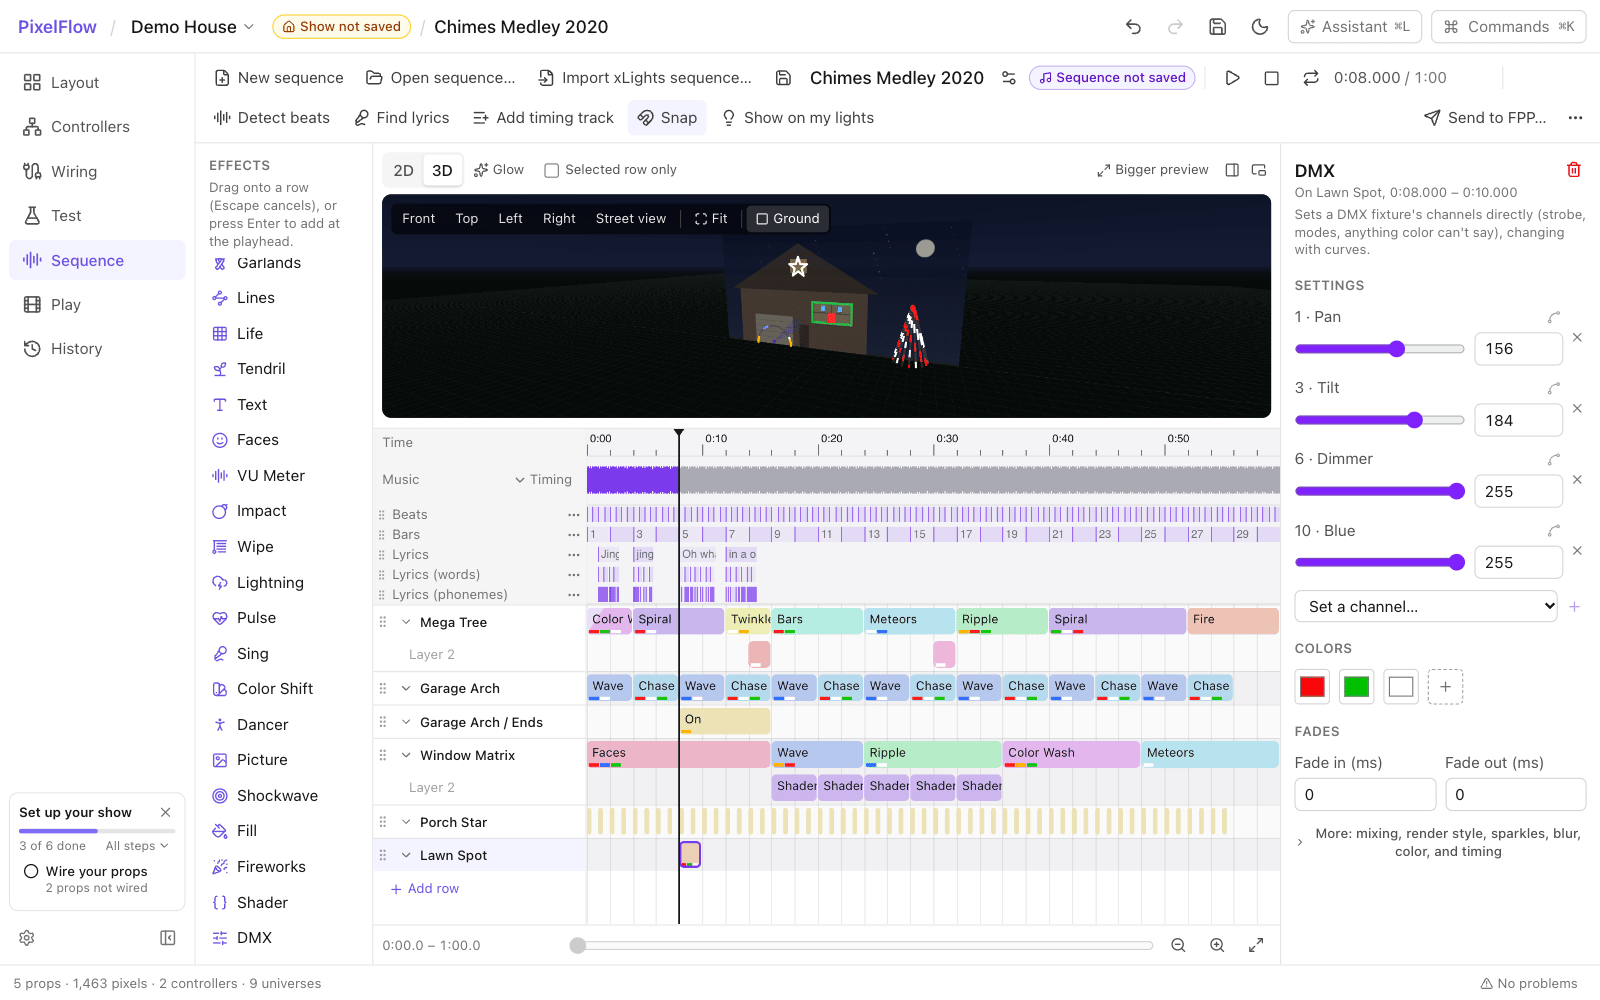
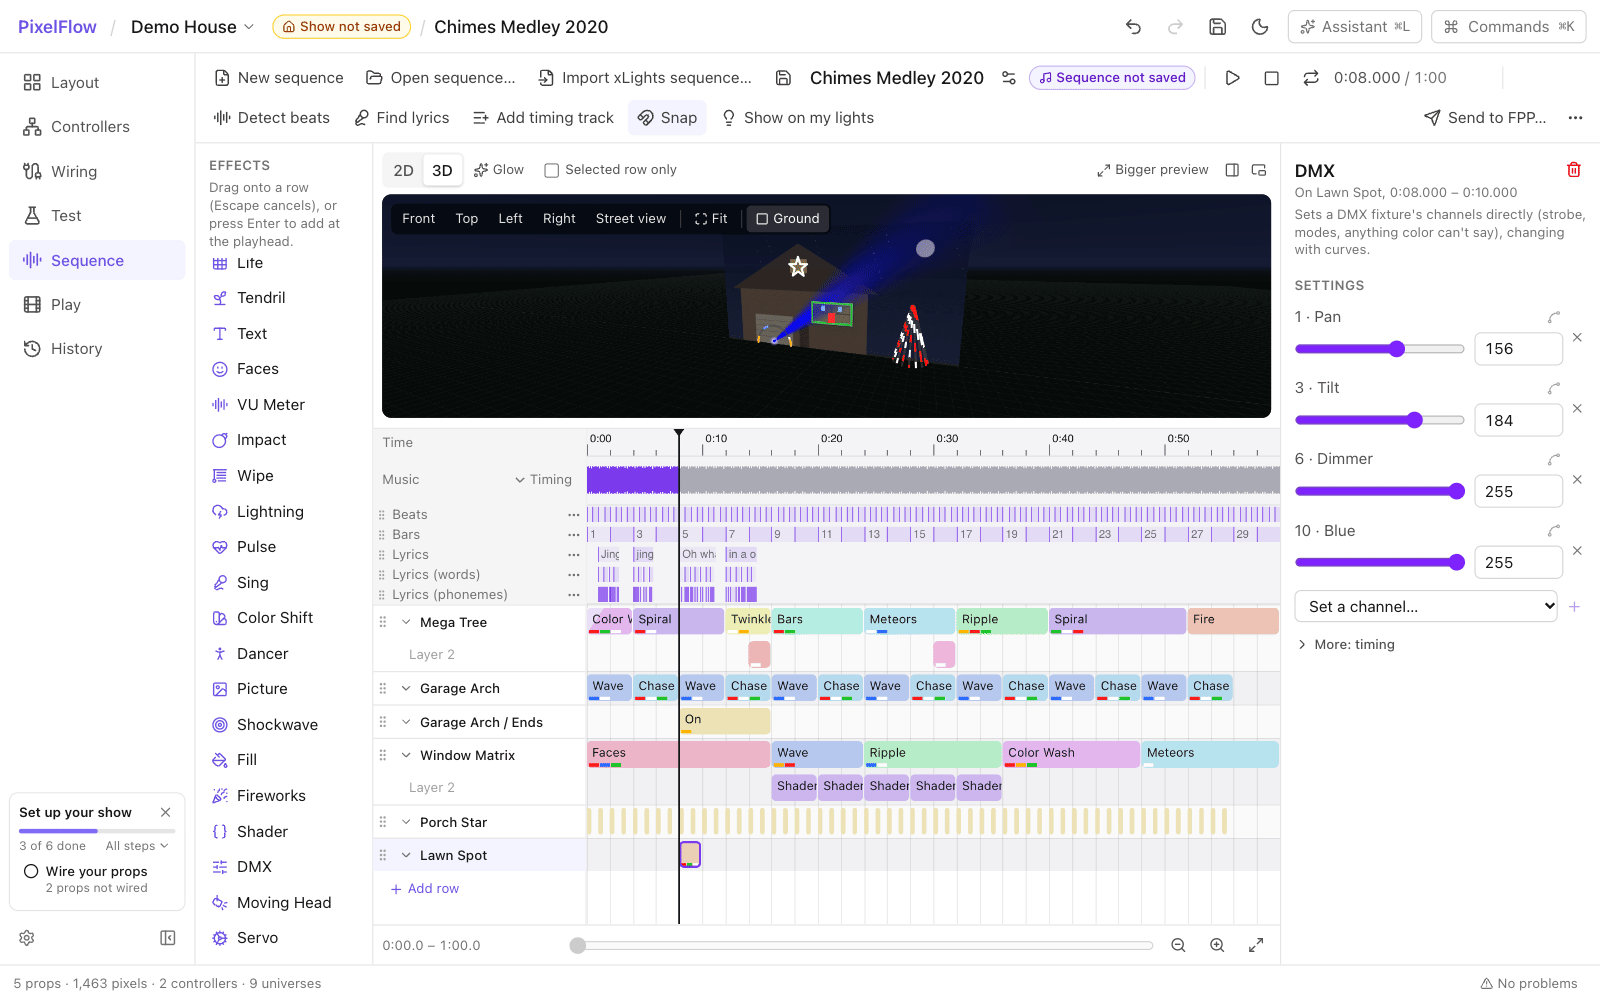
docs(dmx): long beams in haze, adding up where they cross, with a lens flare
Describes how the previews draw a head's beam now, and retakes the
screenshots that show beams. The DMX head shots no longer ask for the
preview above the timeline in a narrow window, which has it there already.

diff --git a/docs/dmx.md b/docs/dmx.md
@@ -87,8 +87,9 @@ wheel, or cyan, magenta and yellow, usually with a dimmer and a shutter.
    - **Reversed**: it turns the other way as the value rises.
    - **Hung upside down**: it hangs from its base (turned half round in the front plane). To point
      it another way, turn the prop on Layout.
-   - **Beam width** (the fixture's beam angle) and **Beam drawn** (how far the previews draw it).
-     A head with a zoom channel (set a channel's role to **Zoom**) has **Zoom at 0** and **Zoom at
+   - **Beam width** (the fixture's beam angle) and **Beam drawn** (how far the previews draw its
+     beam at full strength; its light fades on to four times as far, so the default of 6 reaches
+     24). A head with a zoom channel (set a channel's role to **Zoom**) has **Zoom at 0** and **Zoom at
      255** instead: how wide its beam is at either end of the channel, from the manual; in
      between, the beam widens in proportion.
 
@@ -139,7 +140,7 @@ on a head's row, or on a group of heads to move them all at once.
   shutter](#strobe-and-shutter)), and at 0 opens it. A head with no strobe channel flashes its
   light instead.
 
-![The Sequence screen with a Moving Head effect on the Lawn Spots group of three heads: its settings show the pan and tilt pad, Pan 0, Tilt 50, the Circle movement 60 by 30 at 0.25 a second. The preview shows three blue beams fanned out from the lawn.](images/dmx-moving-head-effect.png)
+![The Sequence screen with a Moving Head effect on the Lawn Spots group of three heads: its settings show the pan and tilt pad, Pan 0, Tilt 50, the Circle movement 60 by 30 at 0.25 a second. The preview shows three long blue beams fanned out from the lawn, past the house, brighter where they cross.](images/dmx-moving-head-effect.png)
 
 Each head's limits always hold: a position past them stops at the limit. Fades dim the light and
 never move a head. Where it and a DMX effect set one channel, the later row (or the higher layer)
@@ -171,30 +172,45 @@ The head's color comes from what is drawn on it, on a layer below, or from its d
 channels set in the same effect. The previews draw the head's beam where it points, in its color;
 a servo's arm turns.
 
-![The Sequence screen with a DMX effect on the Lawn Spot moving head: 1 · Pan 156, 3 · Tilt 184, 6 · Dimmer 255 and 10 · Blue 255. The preview above the timeline shows a blue beam rising from the head to the right.](images/dmx-head-effect.png)
+![The Sequence screen with a DMX effect on the Lawn Spot moving head: 1 · Pan 156, 3 · Tilt 184, 6 · Dimmer 255 and 10 · Blue 255. The preview above the timeline shows a long blue beam rising from the head to the right, past the house, a flare at its lens.](images/dmx-head-effect.png)
 
 ## In the previews
 
-The previews show a head as the real light would look at night.
+The previews show a head as the real light would look at night, with a little haze in the air.
 
 - **A moving head** shows a beam from where it stands, where its pan and tilt point it, as wide
   as its beam angle (or its zoom channel) makes it. It is in the color the head shows and as
   bright: its dimmer, or the color's own brightness when it has no dimmer, makes it fainter or
-  stronger. Narrow near the head, the beam is bright; where it has spread wide it is softer, as a
-  real beam's light spreads out, and it fades out toward the end of the length it is drawn. So
-  it reads in the small preview beside the timeline and isn't blown out in a big one. Pointing
-  toward you, its end is a soft glow round the head.
+  stronger.
+- **Its reach**: the beam is at full strength as far as **Beam drawn** says, then fades gently
+  with distance, reaching four times as far before it ends softly. A head's beam reaches well
+  past the house, as a real one does at night.
+- **A filled cone**: the beam is brightest along its core and soft to its edges, and widens as it
+  goes. Narrow near the head, it is bright; where it has spread wide it is softer, so it reads in
+  the small preview beside the timeline and isn't blown out in a big one. Pointing toward or away
+  from you, you look along more of it and it is brighter, and its far end shows as a soft disc
+  (straight at you, a soft disc round the head).
+- **Where beams cross** their light adds up, as it does in haze: two orange beams make a
+  brighter orange where they cross, never washed out to white. Beams of different colors mix as
+  light does. Pixels' dots don't add up: each is drawn in its own color, over the beams.
+- **A flare at the lens**: while its light is on, a head shows a bright spot at its lens, larger
+  and whiter the brighter the head is. It flashes with the strobe.
 - **A beam pointing down** stops where it meets the ground and lights a pool of light there,
-  stretched the more the beam slants.
-- **Its shutter and strobe**: a closed shutter is dark, and a strobe flashes (see below).
+  stretched the more the beam slants, and as bright as what is left of the beam there.
+- **Its shutter and strobe**: a closed shutter is dark, with no beam or flare, and a strobe
+  flashes (see below). With the dimmer at 0, or the head at rest and unlit, nothing shows.
 - **Nothing playing**: with the lights off, nothing is lit. On **Layout**, a selected head shows a
-  thin dashed outline of where it points, to help you aim it; it is never drawn as light.
+  thin dashed outline of where it points, as far as **Beam drawn**, to help you aim it; it is
+  never drawn as light.
 - **A servo** shows an arm that turns with it, up at Home.
-- The 2D previews and an exported video draw them alike, from the same numbers; the 3D view draws
-  the beam as a cone by the same rules, which the house model hides where it stands in front of
-  it.
+- The 2D previews and an exported video draw them alike, from the same numbers, the beam cut off
+  at the edge of the picture. The 3D view draws each beam as a cone of lit haze by the same
+  rules, so it reads as a volume from any side, brighter where you look along it; the house model
+  hides it where it stands in front of it, and the ground stops it.
+- **Glow** (beside 2D and 3D) is a separate setting for how much lit pixels glow: it doesn't
+  change the beams.
 
-![The same moment in the 3D view: a blue cone rising from the head, out from the house.](images/dmx-head-3d.png)
+![The same moment in the 3D view: a long blue beam rising from the head, out from the house, a bright flare at its lens.](images/dmx-head-3d.png)
 
 A head moves in the previews to where its channels point it at each moment, at once: a real head
 takes a moment to get there.
